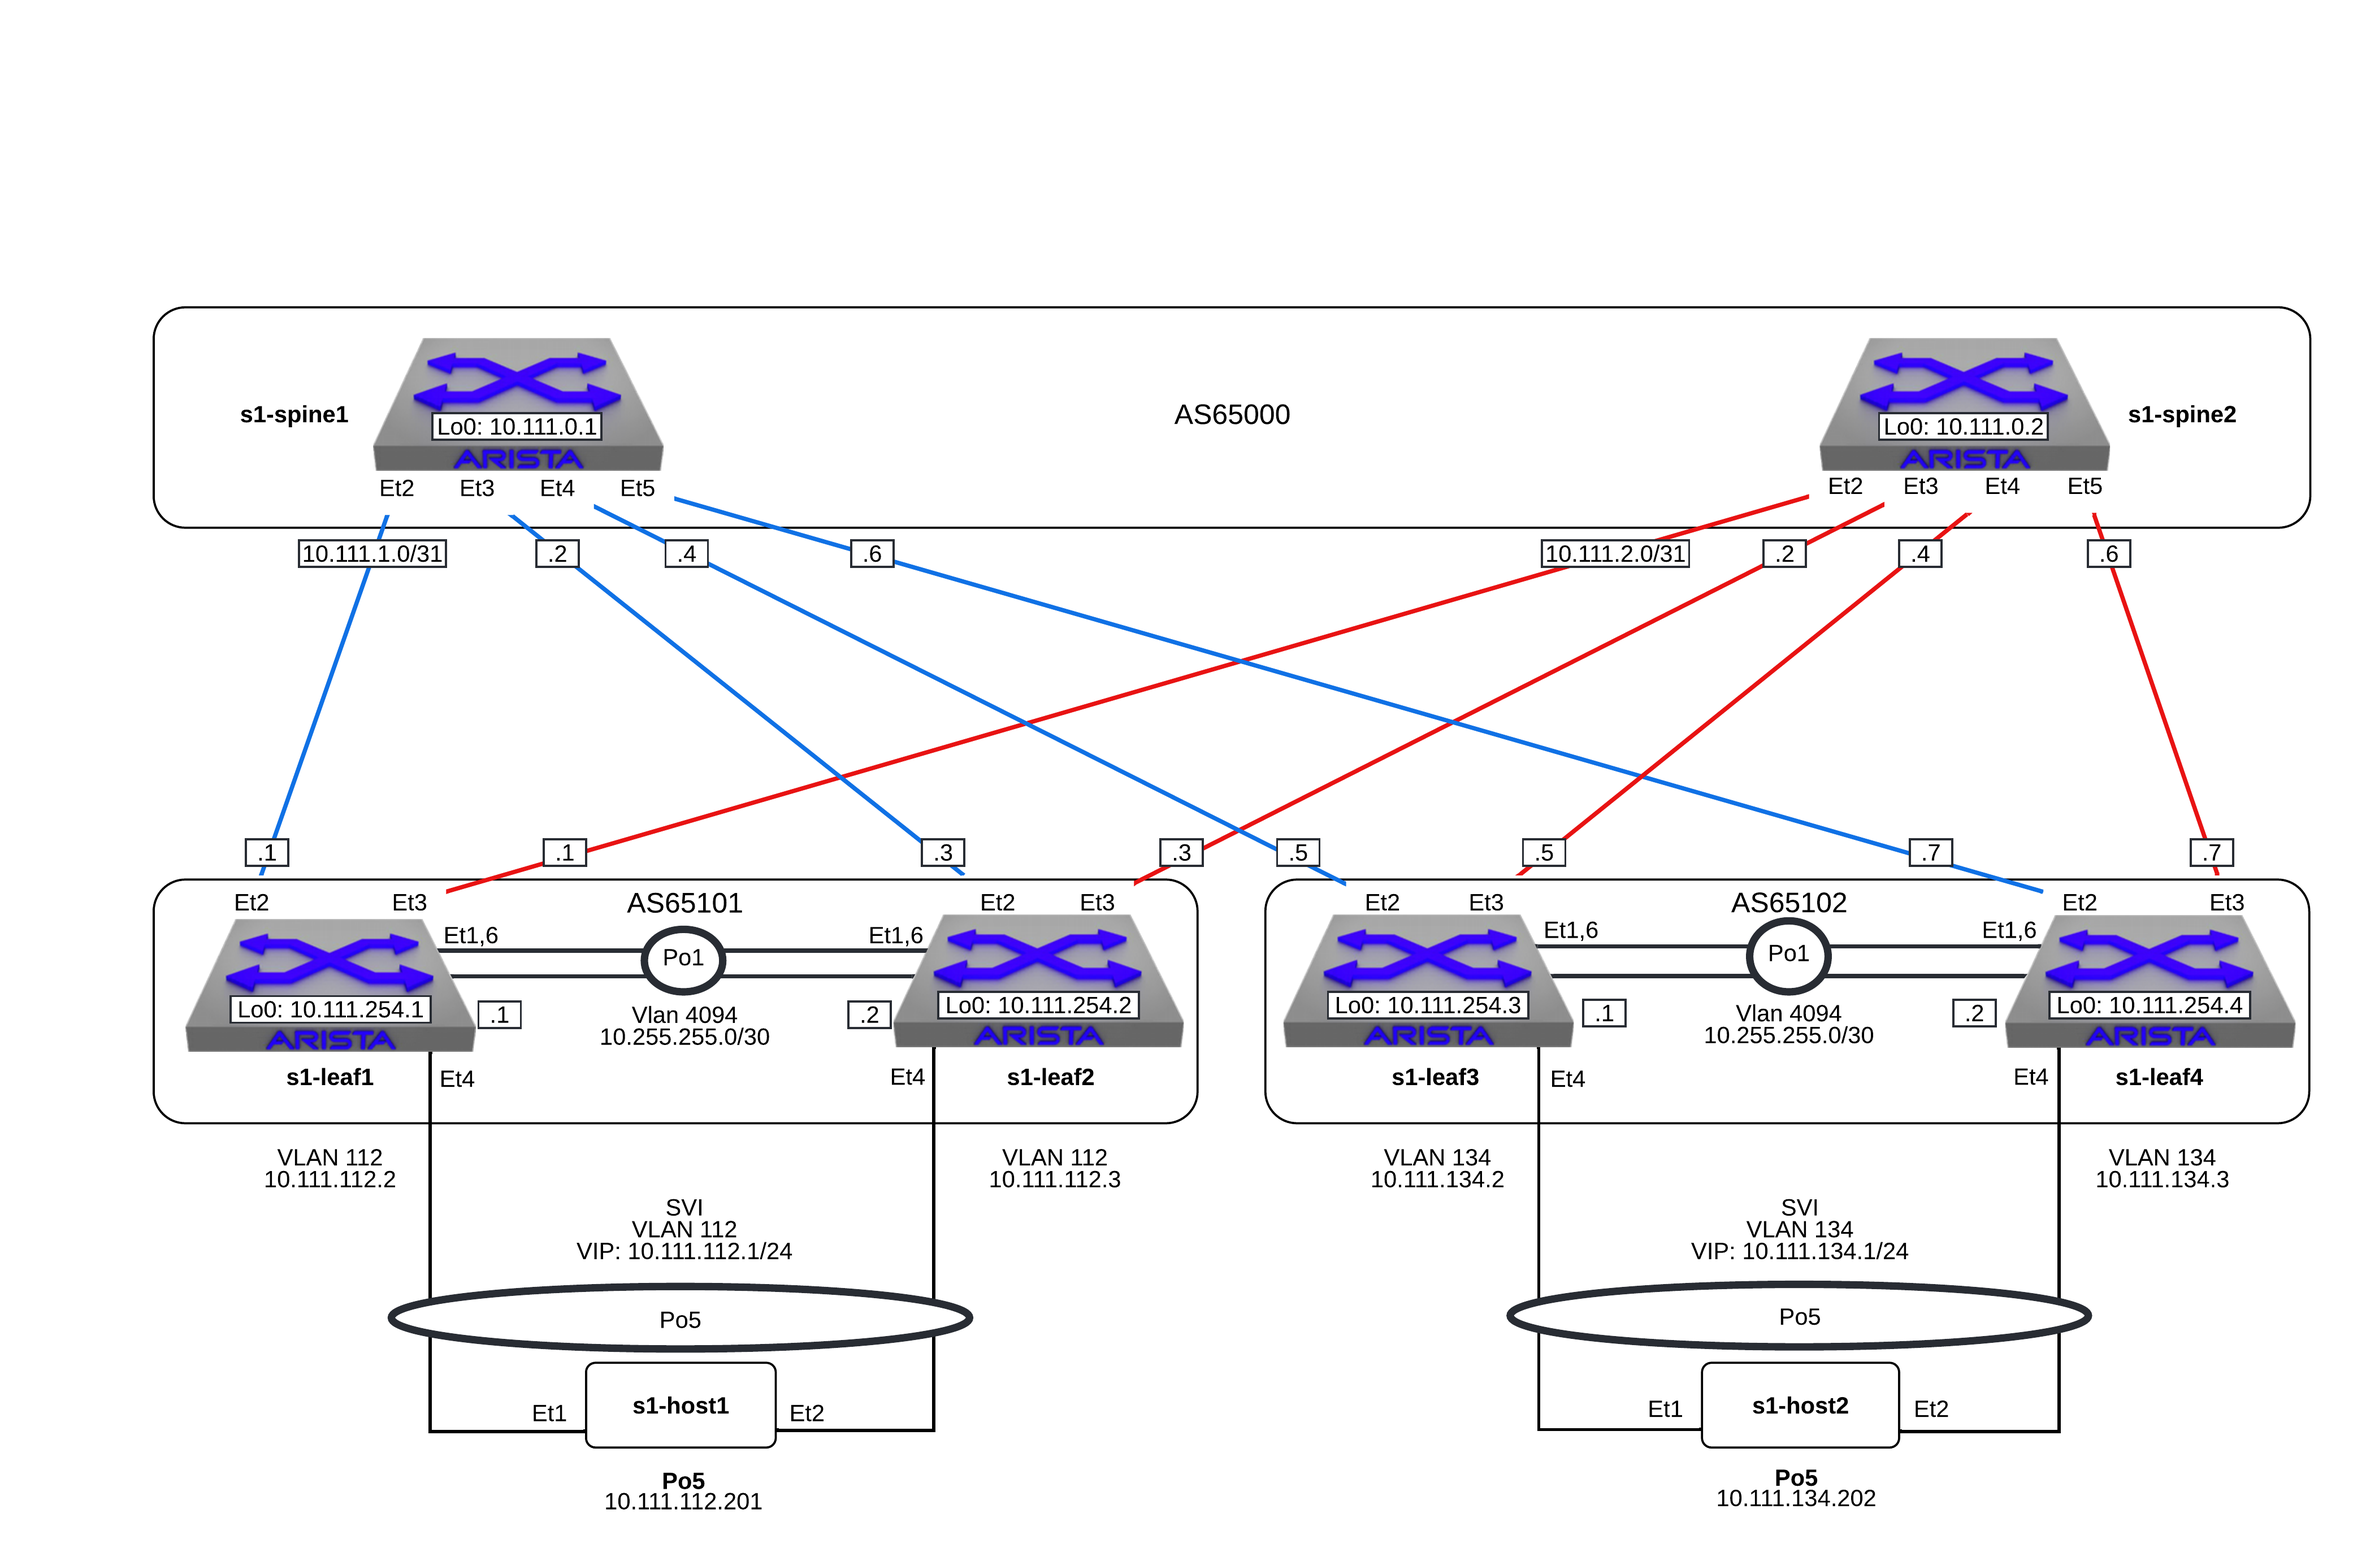
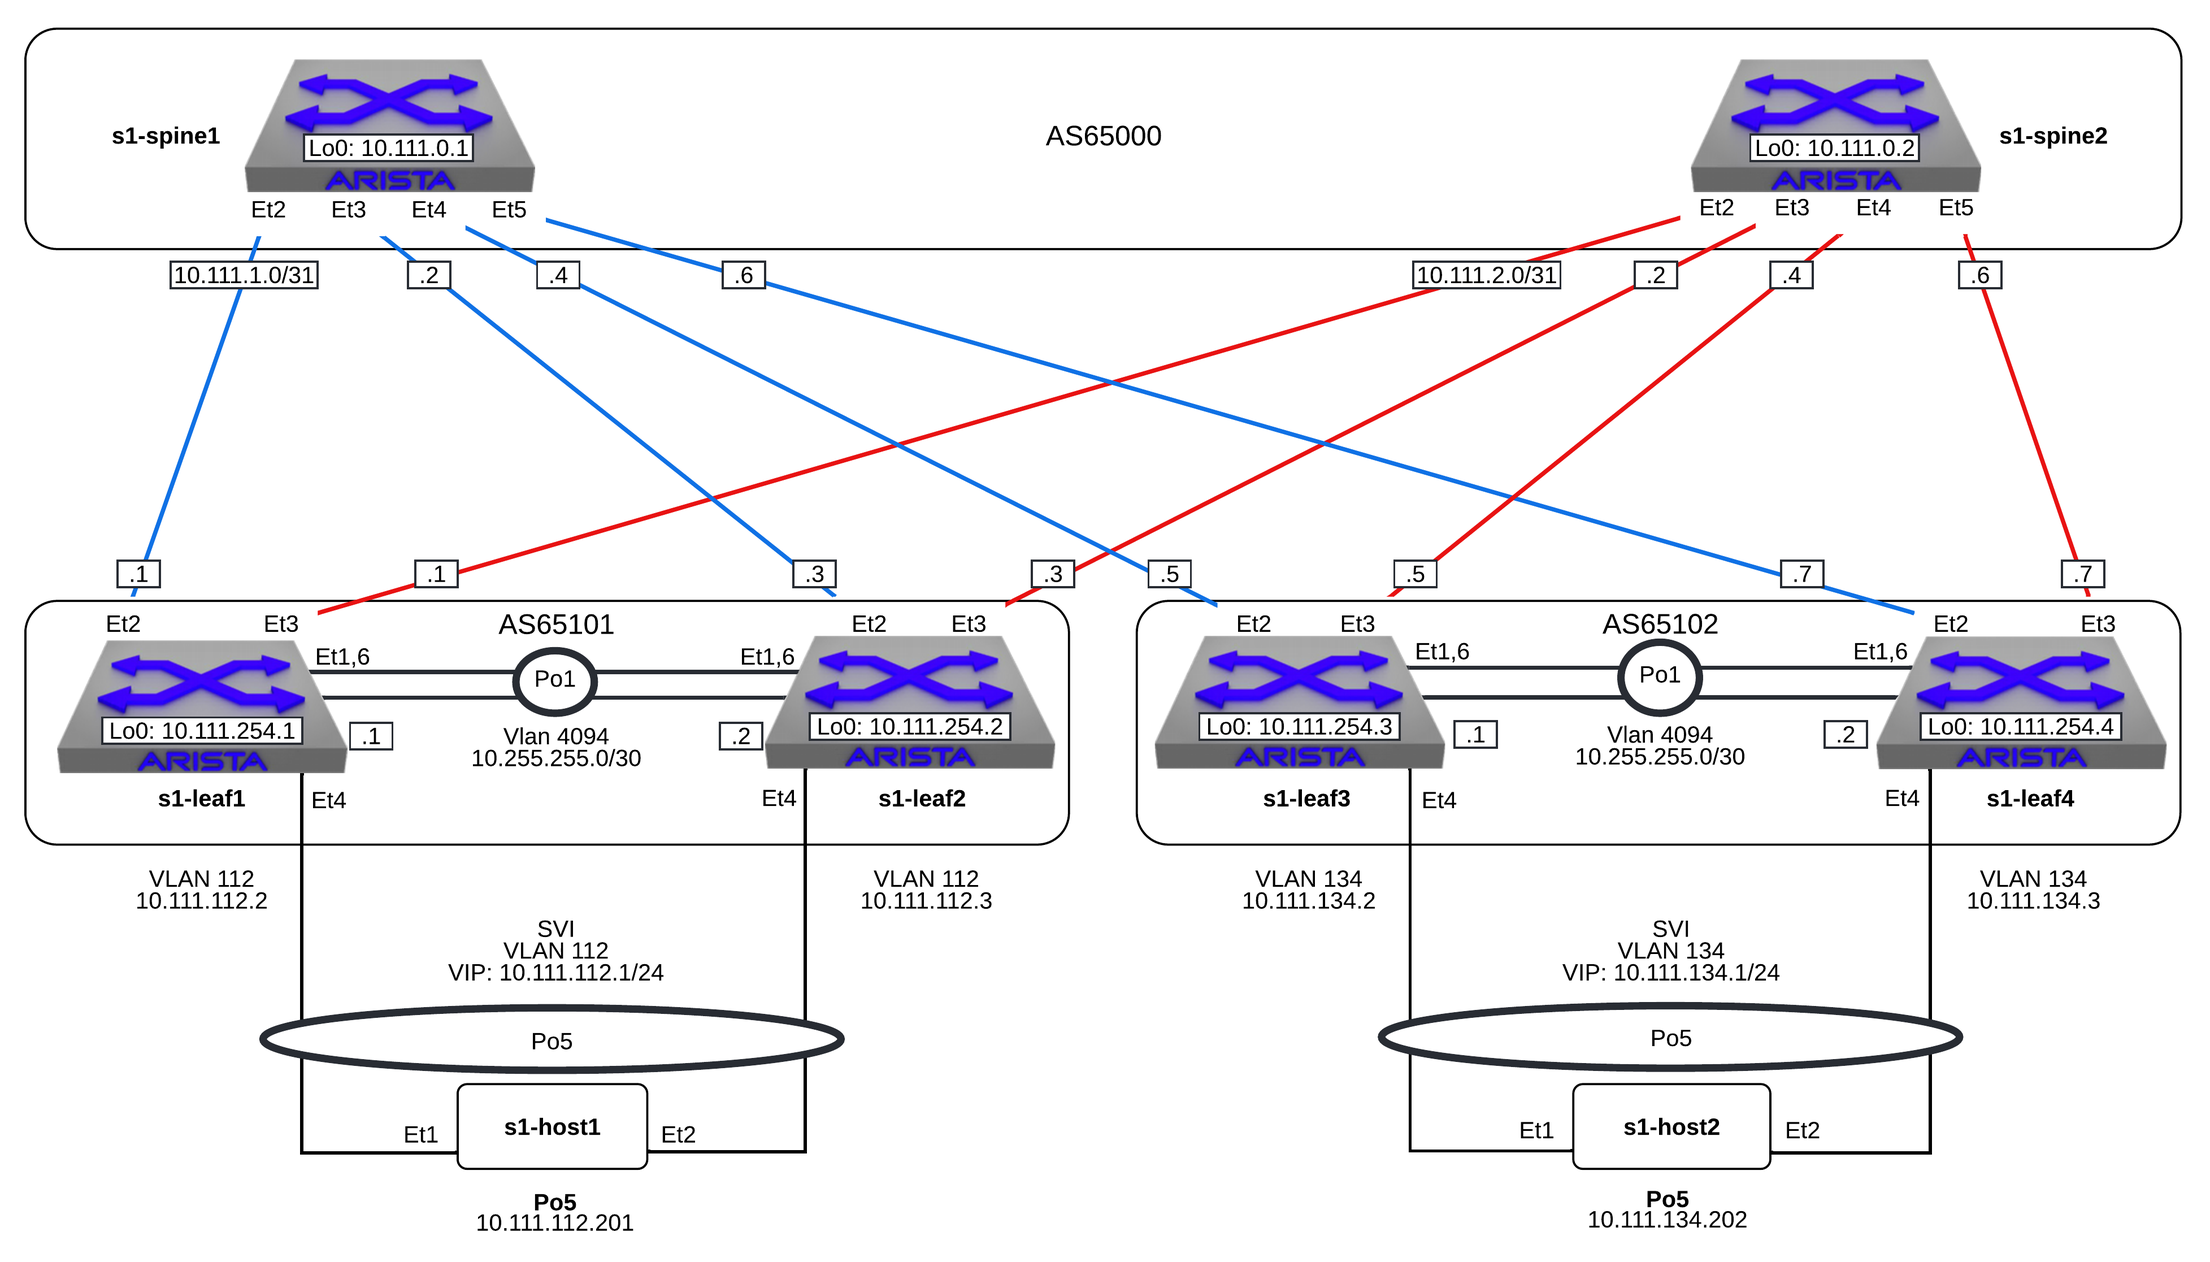
Modified L3LS Lab Guide Image

diff --git a/topologies/dual-datacenter/labguides/source/l3ls.rst b/topologies/dual-datacenter/labguides/source/l3ls.rst
@@ -4,8 +4,10 @@ Layer 3 Leaf-Spine
 ..
    NOTE TO THE EDITOR OF THIS LAB GUIDE FOR DUAL DC!!!! I REMOVED THE VLANs CONFIGLET SO YOU NEED TO ADD A STEP TO CREATE VLAN 34
 
-.. image:: images/l3ls/nested_l3ls_topo_1.png
+.. thumbnail:: images/l3ls/nested_l3ls_topo_1.png
    :align: center
+
+      Click image to enlarge
 
 .. note:: Did you know the “bgp” script is composed of Python code that
           uses the CloudVision Portal REST API to automate the provisioning of
